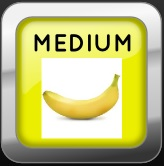
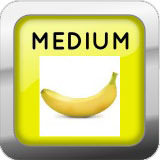
home screen and button changed

diff --git a/src/Pages/HomeScreen.js b/src/Pages/HomeScreen.js
@@ -4,6 +4,7 @@ import ThumbButton from '../Components/ThumbButton';
 import HeadLine from '../Components/HeadLine'
 import { Color } from "../css/_veriables";
 import { PageTitle } from '../Services/titletext';
+import ImageThumbButton from '../Components/ImageButton';
 
 const styles = {
     buttonRow: {flex: 1, flexDirection: "row", justifyContent: "space-between"}
@@ -13,6 +14,10 @@ export default class HomeScreen extends Component {
   
   static navigationOptions = {
         title: PageTitle.mainTitle,
+        headerStyle: {
+          // backgroundColor: '#efe196',
+          backgroundColor: '#e2d488',
+        },
       };
 
       
@@ -22,22 +27,30 @@ export default class HomeScreen extends Component {
       return (
         <ImageBackground source={require('../image/back.jpg')} style={{width: '100%', height: '100%'}}>
           <View style={{flex: 1}}>
+
             {/* <View>
                 <Text style={{fontSize: 20, margin: 10, textAlign: 'center'}}>Welcome to Interactive Lesson for Kids</Text>
             </View> */}
-            <HeadLine Color={Color.green} Label="Welcome to Interactive Lesson for Kids"/>
-            
-            <View style={{flex: 1, padding: 10}}>
-              <View style={{flex: 1, flexDirection: "column", justifyContent: "space-between"}}>
-                <View style={styles.buttonRow}>
-                  <ThumbButton Label="Level 1" Color={Color.red} onPress={() => navigate('Label1Home') }/>
-                </View>
-                <View style={styles.buttonRow}>
-                  <ThumbButton Label="Level 2" Color={Color.green} onPress={() => navigate('Label2Home') }/>
-                </View>
-                <View style={styles.buttonRow}>
-                  <ThumbButton Label="Level 3" Color={Color.blue} onPress={() => navigate('Label3Home') }/>
-                </View>
+            {/* <HeadLine Color={Color.green} Label="Welcome to Interactive Lesson for Kids"/> */}
+            <View style={{flex: 1}}>
+
+            </View>
+            <View style={{flex: 1}}>
+              <View style={{flex: 1, flexDirection: "column", justifyContent: "flex-end", alignItems: 'flex-end'}}>
+                {/* <View style={styles.buttonRow}> */}
+                  {/* <ImageBackground source={require('../image/easy.jpg')} style={{width: '100%', height: '100%'}}> */}
+                    <ImageThumbButton image={require('../image/easy.png')}
+                     Label="Level 1" Color={Color.red} onPress={() => navigate('Label1Home') }/>
+                  {/* </ImageBackground> */}
+                {/* </View> */}
+                {/* <View style={styles.buttonRow}> */}
+                  <ImageThumbButton image={require('../image/medium.png')}
+                    Label="Level 2" Color={Color.green} onPress={() => navigate('Label2Home') }/>
+                {/* </View>
+                <View style={styles.buttonRow}> */}
+                  <ImageThumbButton image={require('../image/hard.png')}
+                     Label="Level 3" Color={Color.blue} onPress={() => navigate('Label3Home') }/>
+                {/* </View> */}
               </View>
             </View>
         </View>

diff --git a/src/Components/ImageButton.js b/src/Components/ImageButton.js
@@ -1,0 +1,32 @@
+import React, {Component} from 'react';
+import {Text, View, ImageBackground, TouchableOpacity} from 'react-native';
+import { HexToRGBA } from '../Services/HexToRGB';
+
+const sqSize = 100;
+// const styles = {
+//     buttonArea: {
+//         //height: sqSize,
+//          //width: '100%'
+//     }
+// }
+const with100 = {width: '100%', height: '100%'}
+
+export default class ImageThumbButton extends Component {
+    render() {
+        // // const extColor = {backgroundColor: this.props.Color}
+        // const color = HexToRGBA(this.props.Color, 85);
+        // const extColor = {backgroundColor: 'rgba(' + color.red + ', ' + color.green + ', ' + color.blue + ', '+ color.alfa + ')' }
+        // console.log('bg color is : ', extColor);
+        //const textColor = {color: this.props.fontColor != undefined ? this.props.fontColor : '#fff'}
+
+      return (
+        <View>
+          <TouchableOpacity style={{width: 140, height: 140, padding: 10}} onPress={this.props.onPress}>
+            <ImageBackground source={this.props.image} style={with100}>
+              {/* <Text style={[{lineHeight: sqSize, textAlign: "center", fontWeight: "700"}, textColor]}>{this.props.Label}</Text> */}
+            </ImageBackground>
+          </TouchableOpacity>
+        </View>
+      );
+    }
+  }

diff --git a/src/Pages/Lable1Home.js b/src/Pages/Lable1Home.js
@@ -24,7 +24,7 @@ export default class Label1HomeScreen extends Component {
             {/* <View>
                 <Text style={{fontSize: 20, margin: 10, textAlign: 'center'}}>Welcome to Interactive Lesson for Kids</Text>
             </View> */}
-            <HeadLine Color={Color.green} Label="Welcome to Interactive Lesson for Kids"/>
+            <HeadLine Color={Color.green} Label="Very Easy Lesson for Kids"/>
             
             <View style={{flex: 1, padding: 10}}>
             <View style={{flex: 1, flexDirection: "column", justifyContent: "space-between"}}>

diff --git a/src/Pages/Lable2Home.js b/src/Pages/Lable2Home.js
@@ -24,7 +24,7 @@ export default class Label2HomeScreen extends Component {
             {/* <View>
                 <Text style={{fontSize: 20, margin: 10, textAlign: 'center'}}>Welcome to Interactive Lesson for Kids</Text>
             </View> */}
-            <HeadLine Color={Color.green} Label="Welcome to Interactive Lesson for Kids"/>
+            <HeadLine Color={Color.green} Label="Medium Lesson for Kids"/>
             
             <View style={{flex: 1, padding: 10}}>
             <View style={{flex: 1, flexDirection: "column", justifyContent: "space-between"}}>

diff --git a/src/Pages/Lable3Home.js b/src/Pages/Lable3Home.js
@@ -24,7 +24,7 @@ export default class Label3HomeScreen extends Component {
             {/* <View>
                 <Text style={{fontSize: 20, margin: 10, textAlign: 'center'}}>Welcome to Interactive Lesson for Kids</Text>
             </View> */}
-            <HeadLine Color={Color.green} Label="Welcome to Interactive Lesson for Kids"/>
+            <HeadLine Color={Color.green} Label="Hard Lesson for Kids"/>
             
             <View style={{flex: 1, padding: 10}}>
             <View style={{flex: 1, flexDirection: "column", justifyContent: "space-between"}}>

diff --git a/src/Components/ThumbButton.js b/src/Components/ThumbButton.js
@@ -22,7 +22,7 @@ export default class ThumbButton extends Component {
         <View style={{flex: 1}}>
             <TouchableOpacity style={[ extColor, {flex: 1, justifyContent: "center"}]}
               onPress={this.props.onPress}>
-                <Text style={[{lineHeight: sqSize, textAlign: "center", fontWeight: "700"}, textColor]}>{this.props.Label}</Text>
+                <Text style={[{lineHeight: sqSize, textAlign: "center", fontWeight: "700", fontSize: 40}, textColor]}>{this.props.Label}</Text>
             </TouchableOpacity>
         </View>
       );
